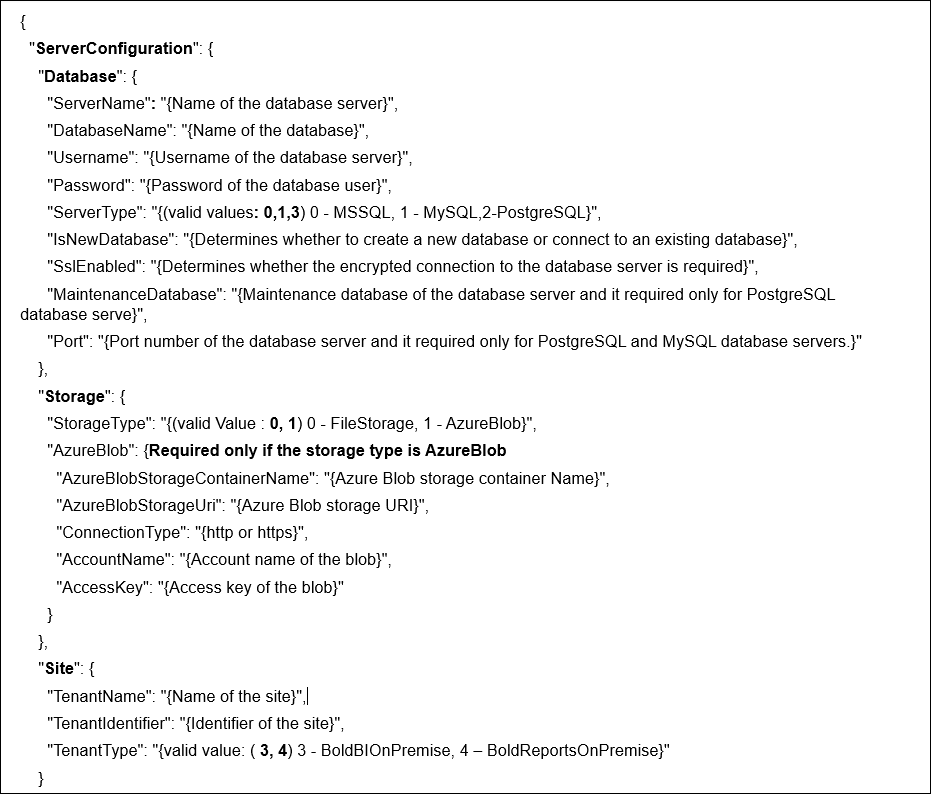
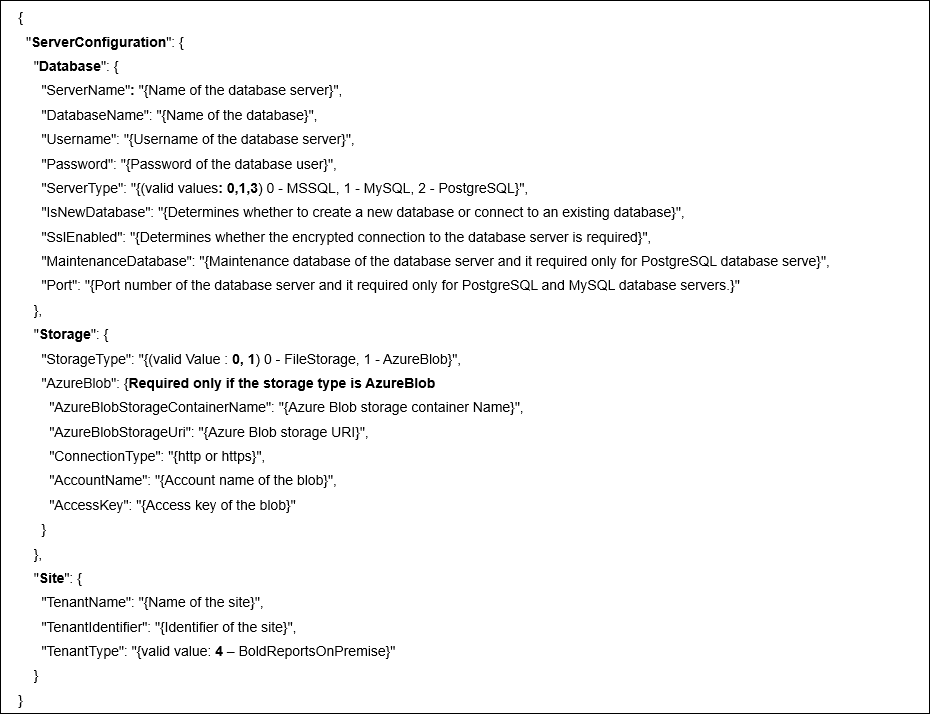
documentation(REPORT-21385): Review changes

diff --git a/docs/administrator-guide/installation/windows-installer/silent-installation.md b/docs/administrator-guide/installation/windows-installer/silent-installation.md
@@ -1,18 +1,18 @@
 ---
 layout: post
-title: Install Bold Reports Enterprise Edition in Silent Mode
-description: Read this documentation to learn how to install the Bold Reports Enterprise Edition in silent mode into another installer and embed the reports in an application..
+title: Install Bold Reports Enterprise Reporting in Silent Mode
+description: Read this guide to learn about how to install the Bold Reports Enterprise Reporting using silent mode.
 platform: report-platform
 documentation: ug
 ---
 
-# Install the Bold Reports Enterprise Edition in silent mode
+# Install the Bold Reports Enterprise Reporting in silent mode
 
-This section explains how to install and deploy the Bold Reports Enterprise Edition in silent mode. This silent installer can be included in your existing installation process..
+This section explains how to install and deploy the Bold Reports Enterprise Reporting in silent mode. This silent installer can be included in your existing installation process.
 
-## Installing the Bold Reports Enterprise Edition in command line
+## Installing the Bold Reports Enterprise Reporting in command line
 
-Please follow the below steps to install the Bold Reports Enterprise Edition in silent mode.
+Please follow the below steps to install the Bold Reports Enterprise Reporting in silent mode.
 
 1. First you need to [download](https://help.boldreports.com/enterprise-reporting/administrator-guide/getting-started/#registration--download) the `BoldReports_EnterpriseReporting.exe` from your account.
 
@@ -30,7 +30,7 @@ Please follow the below steps to install the Bold Reports Enterprise Edition in 
 
     ![Exit-wizard](/static/assets/on-premise/images/installation/silent-installation/exit-wizard.png)
 
-7. Open the windows command prompt in **Administrator** mode and navigate to the copied `boldreportenterprisereport.exe` file location .
+7. Open the windows command prompt in **Administrator** mode and navigate to `boldreport_enterprisereporting.exe` file location which is copied from step 5.
 
 8. Provide the necessary arguments in the below command to install the the above `Bold Reports Enterprise Edition` installer in silent mode.
 
@@ -49,9 +49,9 @@ Please follow the below steps to install the Bold Reports Enterprise Edition in 
 
 If you need to set the application configuration details during the setup installation itself, you can use this parameter list.
 
-Once the silent installation was completed, your application will be configured by default and you can proceed to use the reports of BoldServices.
+Once the silent installation was completed, your application will be configured by default and you can proceed to use the boldreports.
 
-Download the [application_startup](https://github.com/boldreports/api-payload/blob/master/v2/application_startup.json) JSON file and provide ServerConfiguration, DataStoreConfiguration and UmsConfiguration details in application_startup.JSon file.
+Download the [application_startup](https://github.com/boldreports/api-payload/blob/master/v2/application_startup.json) JSON file and provide ServerConfiguration and UmsConfiguration details in application_startup.json file.
 
 We have to provide Database, Storage and Site details in **ServerConfiguration**
 
@@ -61,15 +61,15 @@ We have to provide Database, Storage and Site details in **ServerConfiguration**
 
 ![ServerConfiguration-example](/static/assets/on-premise/images/installation/silent-installation/server-configuration-example.png)
 
-We have to provide Database details in **DataStoreConfiguration**, it required to create BoldBIOnPremise tenants only.
-
-![DataStoreConfiguration-reference](/static/assets/on-premise/images/installation/silent-installation/datastoreconfiguration-reference.png)
-
-**Example,**
-
-![DataStoreConfiguration-example](/static/assets/on-premise/images/installation/silent-installation/datastoreconfiguration-example.png)
+> NOTE: We don't need to provide Database details in **DataStoreConfiguration**, it required to create BoldBIOnPremise tenants only.
 
 We have to provide Database, Storage, User and unlockkey details in **UmsConfiguration**
+
+Please follow the below steps to get **unlockkey**
+1. Go to [Bold Reports Account](https://www.boldreports.com/account/downloads) and login with your account credentials.
+2. Go to the Subscriptions section.
+3. Click the Get Offline License Key File to download the offline key.
+![Unlock-key](/static/assets/on-premise/images/installation/silent-installation/unlock-key.png)
 
 ![UmsConfiguration-reference](/static/assets/on-premise/images/installation/silent-installation/ums-configuration-reference.png)
 
